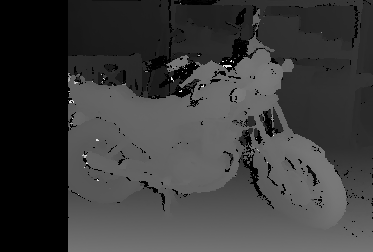
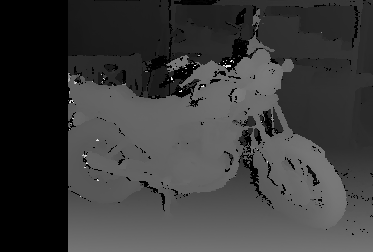
README updated

diff --git a/stereo.py b/stereo.py
@@ -1,60 +1,20 @@
-# STEREO: RECONSTRUCTING A 3D SCENE FROM STEREO IMAGE PAIRS
+"""
+STEREO 3D RECONSTRUCTION
 
-# AUTHOR: ARIHANT GAUR
-# ORGANIZATION: IvLabs, VNIT
-
+AUTHOR: Arihant Gaur
+ORGANIZATION: IvLabs, VNIT
+"""
 
 import cv2
 import numpy as np
-import random
 
-def DrawEpipolarLines(img1, img2, lines, pts1, pts2):
-	r, c = img1.shape[0], img1.shape[1]
-	for r, pt1, pt2 in zip(lines, pts1, pts2):
-		color = tuple(np.random.randint(0, 255, 3).tolist())
-		x0, y0 = map(int, [0, -r[2] / r[1] ])
-		x1, y1 = map(int, [c, -(r[2] + r[0] * c) / r[1] ])
-		img1 = cv2.line(img1, (x0, y0), (x1, y1), color, 1)
-		img1 = cv2.circle(img1, tuple(pt1), 5, color, -1)
-		img2 = cv2.circle(img2, tuple(pt2), 5, color, -1)
 
-	return img1, img2
-	
-def DisplayEpipolarLines(img1, img2, pts1, pts2):
-	linesLeft = cv2.computeCorrespondEpilines(pts2.reshape(-1,1,2), 2, F)
-	linesLeft = linesLeft.reshape(-1,3)
-	img5, img6 = DrawEpipolarLines(img1, img2, linesLeft, pts1, pts2)
-
-	linesRight = cv2.computeCorrespondEpilines(pts1.reshape(-1,1,2), 1, F)
-	linesRight = linesLeft.reshape(-1,3)
-	img3, img4 = DrawEpipolarLines(img2, img1, linesRight, pts2, pts1)
-	
-	return img5, img3
-
-def ImageRectification(image1, image2, pts1, pts2, F, KL, KR, d):
-	height, width = image1.shape[0], image1.shape[1]
-	image_size = (width, height)
-	retval, H1, H2 = cv2.stereoRectifyUncalibrated(pts1, pts2, F, image_size)
-	# Perform rectify shearing, after the whole algorithm is done
-	
-	K_invL = np.linalg.inv(KL)
-	K_invR = np.linalg.inv(KR)
-	R1 = np.matmul(np.matmul(K_invL,H1),KL)
-	R2 = np.matmul(np.matmul(K_invL,H2),KL)
-	
-	mapx1, mapy1 = cv2.initUndistortRectifyMap(KL, d, R1, KL, image_size, cv2.CV_16SC2)
-	mapx2, mapy2 = cv2.initUndistortRectifyMap(KL, d, R2, KL, image_size, cv2.CV_16SC2)
-	
-	
-	rectified1 = cv2.remap(image1, mapx1, mapy1, interpolation = cv2.INTER_CUBIC, borderMode = cv2.BORDER_CONSTANT)
-	rectified2 = cv2.remap(image2, mapx2, mapy2, interpolation = cv2.INTER_CUBIC, borderMode = cv2.BORDER_CONSTANT)
-	
-	return rectified1, rectified2
-	
 def Reprojection3D(image, disparity, f, b):
-	Q = np.array([[1, 0, 0, -2964/2], [0, 1, 0, -2000/2],[0, 0, 0, f],[0, 0, -1/b, 124.343/b]])
+	Q = np.array([[1, 0, 0, -2964/2], [0, 1, 0, -2000/2],[0, 0, 0, f],[0, 0, -1/b, -124.343/b]])
 	#Q = np.array([[1, 0, 0, -2964/2], [0, 1, 0, 2000/2],[0, 0, 0, f],[0, 0, 0, 1]])
 	#Q = np.array([[1, 0, 0, -1244.772], [0, 1, 0, -1019.507],[0, 0, 0, f],[0, 0, -1/b, 124.343/b]])
+	#Q = np.array([[ 1.00000000e+00, 0.00000000e+00, 0.00000000e+00, -6.68420120e+02], [ 0.00000000e+00, 1.00000000e+00, 0.00000000e+00, -5.09922611e+02], [ 0.00000000e+00,  0.00000000e+00, 0.00000000e+00, 1.98995544e+03], [ 0.00000000e+00, 0.00000000e+00, 1.00000000e+00, -0.00000000e+00]])
+
 	#Q = np.array([[1, 0, 0, 0], [0, -1, 0, 0],[0, 0, f * 0.05, 0],[0, 0, 0, 1]])
 	points = cv2.reprojectImageTo3D(disparity, Q)
 	mask = disparity > disparity.min()
@@ -85,78 +45,100 @@ def Reprojection3D(image, disparity, f, b):
 	with open('stereo.ply', 'w') as f:
 		f.write(ply_header %dict(vert_num = len(verts)))
 		np.savetxt(f, verts, '%f %f %f %d %d %d')
-	
-# Naming Output Windows
+
 cv2.namedWindow('disparity', cv2.WINDOW_NORMAL)
 cv2.namedWindow('Left Image', cv2.WINDOW_NORMAL)
 cv2.namedWindow('Right Image', cv2.WINDOW_NORMAL)
 
-# Dataset parameters
-KL = np.array([[3979.911, 0, 1244.772], [0, 3979.911, 1019.507], [0, 0, 1]])
-KR = np.array([[3979.911, 0, 1369.115], [0, 3979.911, 1019.507], [0, 0, 1]])
+K = np.array([[3979.911, 0, 1369.115], [0, 3979.911, 1019.507], [0, 0, 1]], dtype = np.float32)
 D = np.zeros((5,1), dtype = np.float32)
-baseline = 193.001
-f = 3979.911
+downscale = 2
+K[0,0] = K[0,0] / float(downscale)
+K[1,1] = K[1,1] / float(downscale)
+K[0,2] = K[0,2] / float(downscale)
+K[1,2] = K[1,2] / float(downscale)
 
-# Image Acquisition
+#imgL = cv2.imread('/home/arihant/stereo/im0.png')
+#imgR = cv2.imread('/home/arihant/stereo/im1.png')
 imgL = cv2.pyrDown(cv2.imread('/home/arihant/stereo/im0.png'))
 imgR = cv2.pyrDown(cv2.imread('/home/arihant/stereo/im1.png'))
 
 imgLgray = cv2.cvtColor(imgL, cv2.COLOR_BGR2GRAY)
 imgRgray = cv2.cvtColor(imgR, cv2.COLOR_BGR2GRAY)
 
-# Feature Extraction using SIFT
+# Feature Extraction
 sift = cv2.xfeatures2d.SIFT_create()
 
 kp1, des1 = sift.detectAndCompute(imgLgray, None)
 kp2, des2 = sift.detectAndCompute(imgRgray, None)
 
-# Feature Matching using Brute Force KNN Matching and Outlier Rejection 
+# Feature Matching and Outlier Rejection
 bf = cv2.BFMatcher()
 matches = bf.knnMatch(des1, des2, k = 2)
 
 good = []
-pts1 = []
-pts2 = []
 for m,n in matches:
-	if m.distance < 0.80 * n.distance:
+	if m.distance < 0.70 * n.distance:
 		good.append(m)
-		pts2.append(kp2[m.trainIdx].pt)
-		pts1.append(kp1[m.queryIdx].pt)
 		
-pts1 = np.int32(pts1)
-pts2 = np.int32(pts2)
+pts1 = np.float32([kp1[m.queryIdx].pt for m in good]).reshape(-1,1,2)
+pts2 = np.float32([kp2[m.trainIdx].pt for m in good]).reshape(-1,1,2)
 
-# Fundamental Matrix Calculation
-F, mask = cv2.findFundamentalMat(pts1, pts2, cv2.FM_RANSAC)
-pts1 = pts1[mask.ravel() == 1]
-pts2 = pts2[mask.ravel() == 1]
+E, mask = cv2.findEssentialMat(pts1, pts2, K, method = cv2.RANSAC, prob = 0.999, threshold = 0.4, mask = None)
+pts1 = pts1[mask.ravel() ==1]
+pts2 = pts2[mask.ravel() ==1]
+_, R, t, mask = cv2.recoverPose(E, pts1, pts2, K)
 
-# Checking Epipolar Lines. Uncomment for verification
-#imgL, imgR = DisplayEpipolarLines(imgL, imgR, pts1, pts2)
+P1 = np.zeros((3,4))
+P1 = np.matmul(K, P1)
+P2 = np.hstack((R, t))
+P2 = np.matmul(K, P2)
+points1 = pts1.reshape(2, -1)
+points2 = pts2.reshape(2, -1)
+#cloud = cv2.triangulatePoints(P1, P2, pts1, pts2).reshape(-1, 4)[:, :3]
+#ret, R, t, inliers = cv2.solvePnPRansac(cloud, pts2, K, D, cv2.SOLVEPNP_ITERATIVE)
 
-# Stereo Rectification
-imgLrec, imgRrec = ImageRectification(imgL, imgR, pts1, pts2, F, KL, KR, D)
-#imgLrec = imgL
-#imgRrec = imgR
-#imgL, imgR = DisplayEpipolarLines(imgL, imgR, pts1, pts2)
+R1, R2, P1, P2, Q, a, b = cv2.stereoRectify(K, D, K, D, (1482, 1000), R, t)
+map1, map2 = cv2.initUndistortRectifyMap(K, D, R1, P1, (1482, 1000), cv2.CV_16SC2)
+imgLrec = cv2.remap(imgL, map1, map2, cv2.INTER_CUBIC)
 
-# Disparity Map
-max_disparity = 63
+map3, map4 = cv2.initUndistortRectifyMap(K, D, R2, P2, (1482, 1000), cv2.CV_16SC2)
+imgRrec = cv2.remap(imgR, map3, map4, cv2.INTER_CUBIC)
+
+max_disparity = 271
 min_disparity = -1
 num_disparities = max_disparity - min_disparity
 window_size = 5
 stereo = cv2.StereoSGBM_create(minDisparity = min_disparity, numDisparities = num_disparities, blockSize = 5, uniquenessRatio = 5, speckleWindowSize = 5, speckleRange = 5, disp12MaxDiff = 2, P1 = 8*3*window_size**2, P2 = 32*3*window_size**2)
+
+stereo2 = cv2.ximgproc.createRightMatcher(stereo)
+
+#lamb = 120000
+#sig = 1.2
+#visual_multiplier = 1.0
+#wls_filter = cv2.ximgproc.createDisparityWLSFilter(stereo)
+#wls_filter.setLambda(lamb)
+#wls_filter.setSigmaColor(sig)
+
 disparity = stereo.compute(imgLrec, imgRrec)
-cv2.filterSpeckles(disparity, 0, 400, max_disparity - 5)
+#cv2.filterSpeckles(disparity, 0, 400, max_disparity - 5)
 _, disparity = cv2.threshold(disparity, 0, max_disparity * 16, cv2.THRESH_TOZERO)
 disparity = (disparity / 16).astype(np.uint8)
 
-# 3D Reprojection
-img3D = Reprojection3D(imgL, disparity, f, baseline)
+#disparity2 = stereo2.compute(imgRrec, imgLrec)
+#cv2.filterSpeckles(disparity, 0, 400, max_disparity - 5)
+#_, disparity2 = cv2.threshold(disparity2, 0, max_disparity * 16, cv2.THRESH_TOZERO)
+#disparity2 = (disparity2 / 16).astype(np.uint8)
+#filteredImg = wls_filter.filter(disparity, imgL, None, disparity2)
 
-cv2.imshow('Left Image',imgL)
+baseline = 193.001
+f = 3979.911
+
+Reprojection3D(imgL, disparity, f, baseline)
+
+cv2.imshow('Left Image', imgL)
 cv2.imshow('Right Image', imgR)
 cv2.imshow('disparity', disparity)
 cv2.waitKey(0)
 cv2.destroyAllWindows()
+

diff --git a/README.md b/README.md
@@ -1,5 +1,27 @@
 # Stereo
 
-The objective is to reconstruct a 3D equivalent, given a pair of images.
+The objective is to reconstruct a 3D equivalent, given the pair of images.
 
-Currently under progress!
+## Run
+
+1. ```git clone https://github.com/FlagArihant2000/stereo.git```
+2. ```cd stereo```
+3. Execute ```python3 stereo.py```
+4. Result is obtained in ```stereo.ply```, which can be viewed using MeshLab, Open3D, or any other related software or library to view point clouds.
+
+## Working
+
+1. Acquire left and right image.
+2. Feature Extraction using SIFT.
+3. Feature Matching using Brute Force KNN and rejecting outliers.
+4. Finding essential matrix of point correspondance and reject outliers using RANSAC.
+5. Recover Pose.
+6. Perform stereo rectification using the recovered poses. The intrinsic camera matrix and distortion coefficients are known and present in ```calib.txt```.
+7. Calculate the Disparity map with Semi Global Block Matching (SGBM). Number of disparities are mentioned in ```calib.txt```, whereas the other parmeter are taken in the code itself.
+8. Defining reprojection matrix Q to get the 3D equivalent of disparity matrix.
+9. Generating the point cloud, which is stored in ```stereo.ply```.
+
+## Result
+![stereo](https://user-images.githubusercontent.com/45517467/87001892-2a982e80-c1d6-11ea-9f7d-9b4716ce4f38.png)
+
+Currently the results are being improved.
